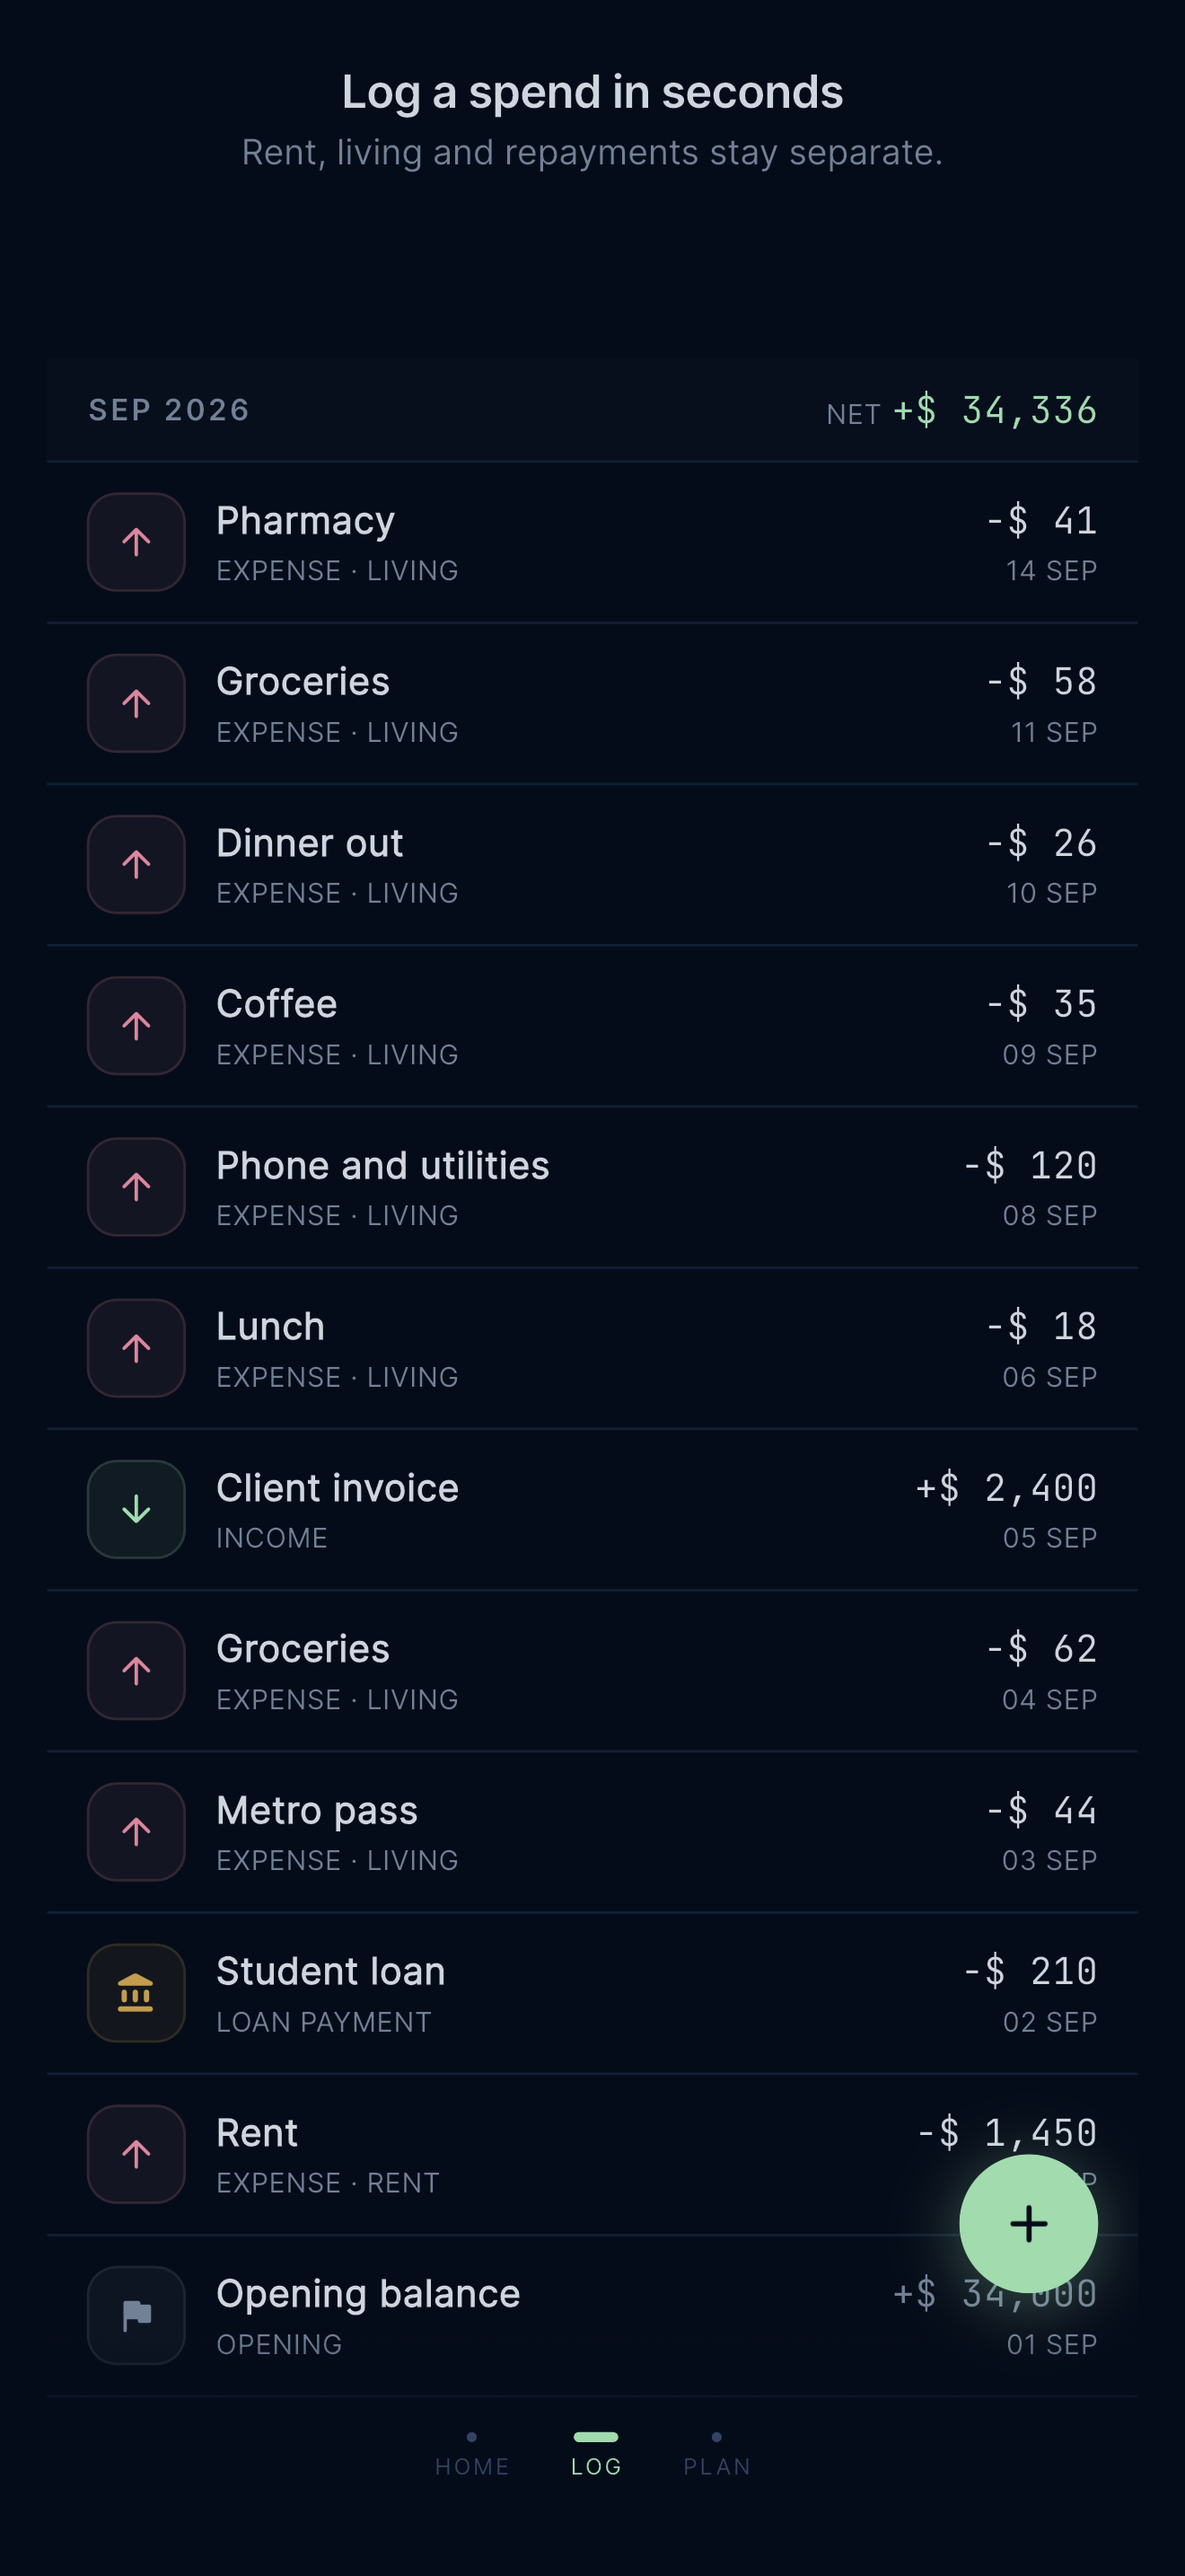
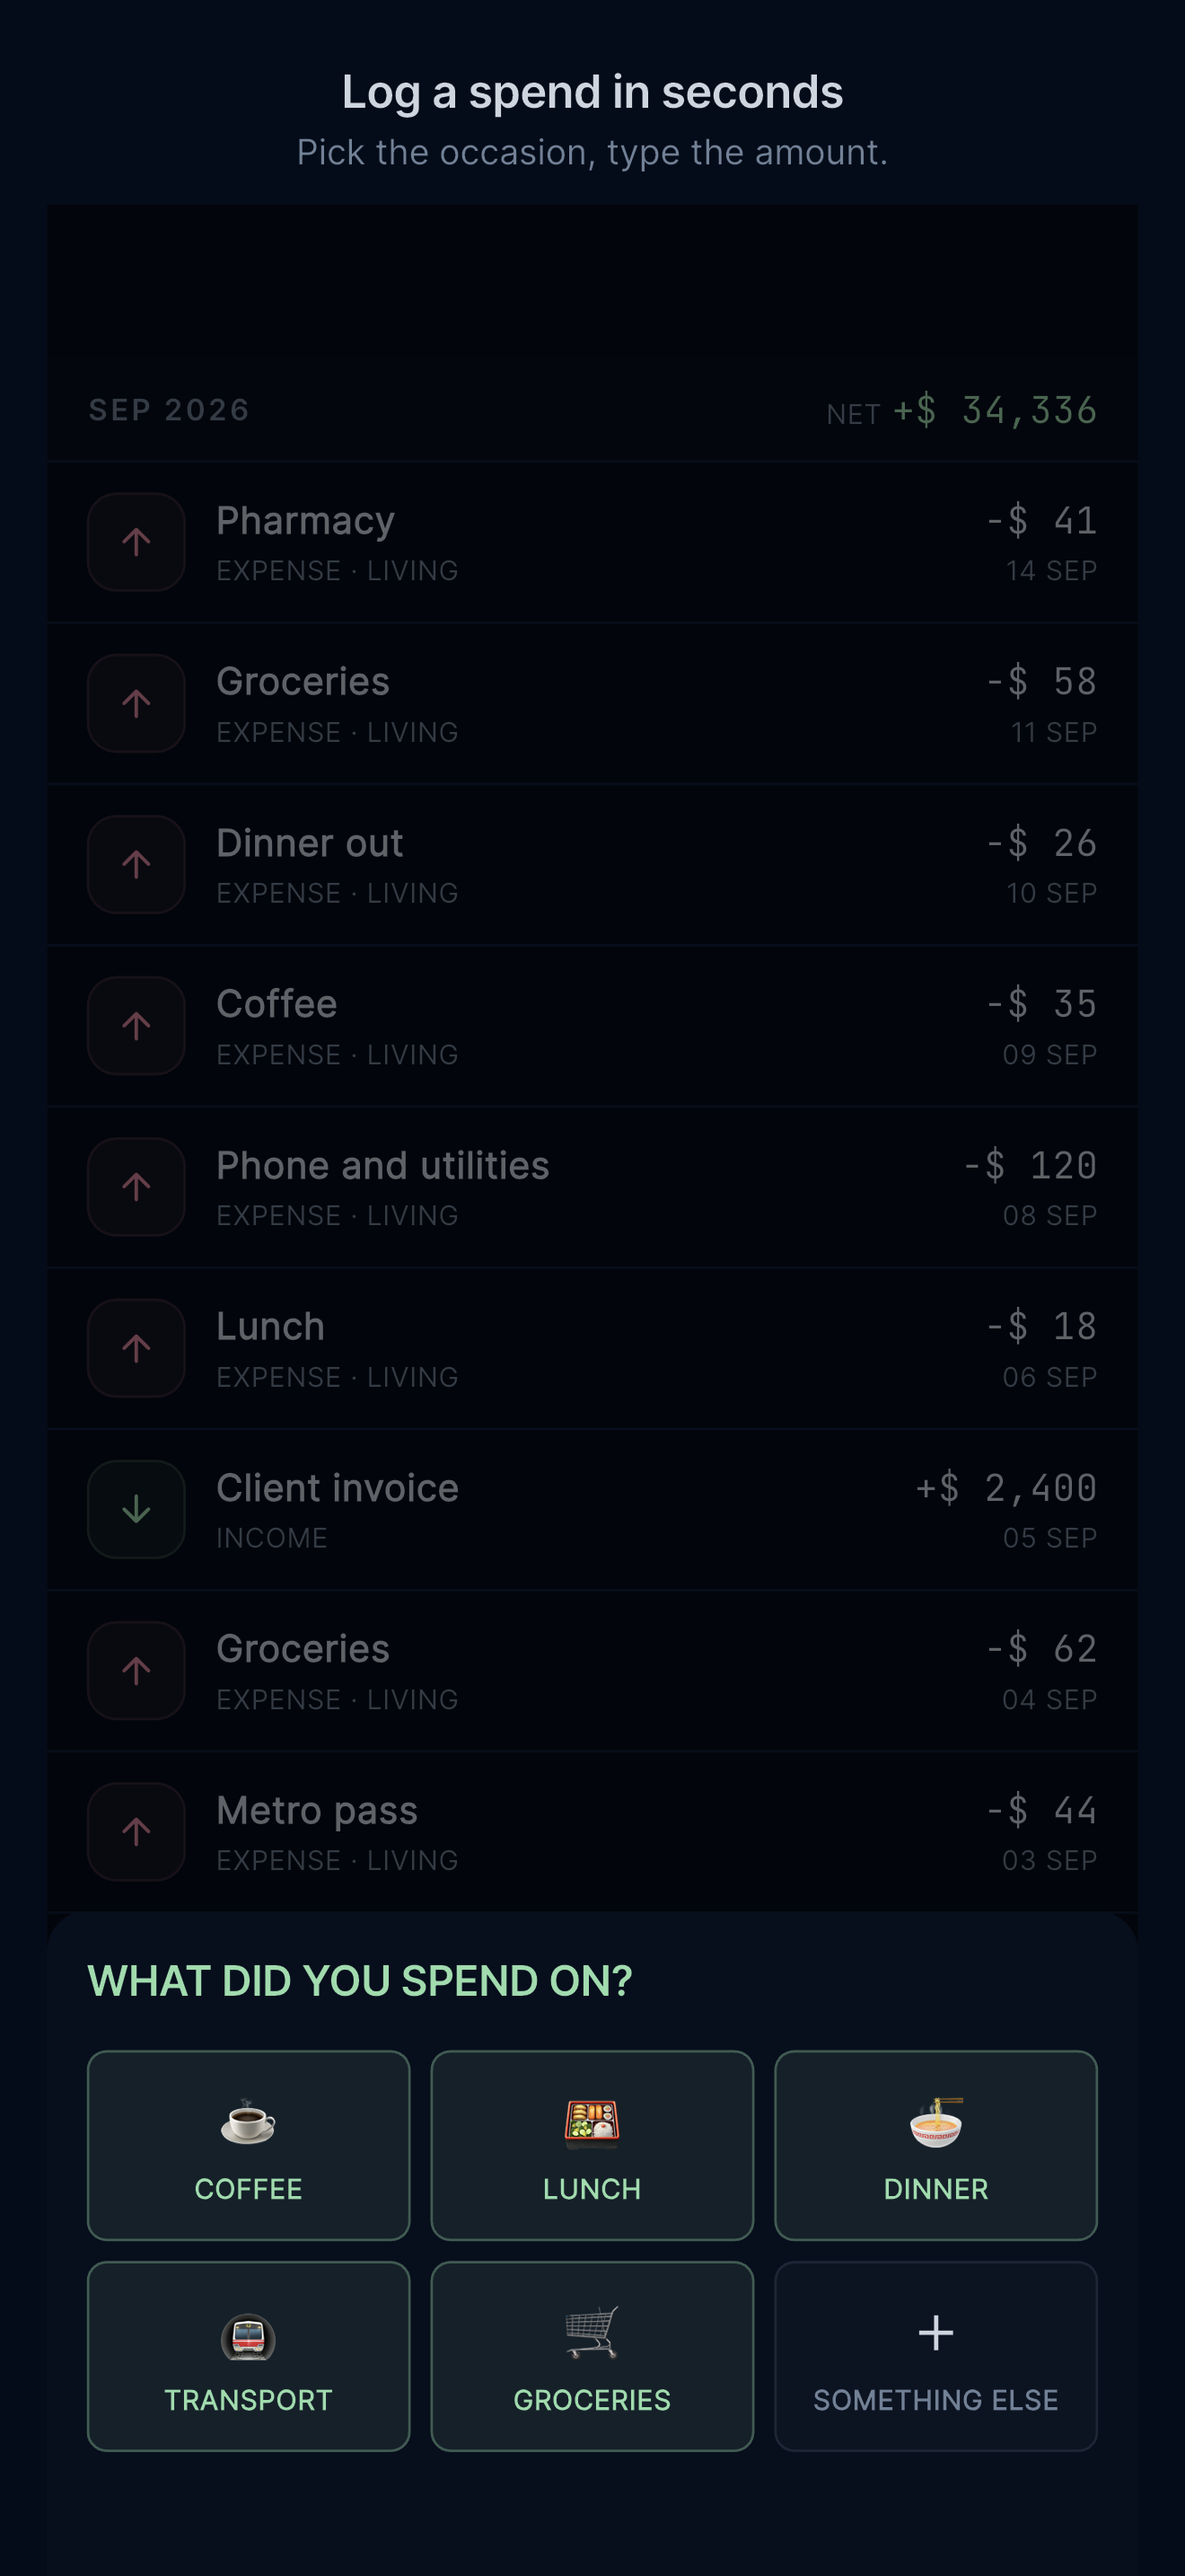
chore(marketing): the log frame shows the presets, not a list of old entries (#205)
The caption promises "log a spend in seconds" and the frame showed a list of
entries already logged, which is the result rather than the mechanism. It now
captures with the preset sheet open, so the six tiles are visible and the
dimmed list above still carries the EXPENSE / LIVING labels.

Sub-caption follows: "Pick the occasion, type the amount."

Only 03-log changes in either set. The other three frames came out
byte-identical, which is the reproducibility the pinned clock buys.

Claude-Session: https://claude.ai/code/session_01LzA2Gog4pmDHuvfaKeYrQX

diff --git a/app/integration_test/screenshots_test.dart b/app/integration_test/screenshots_test.dart
@@ -90,13 +90,20 @@ void main() {
     await pumpRealTime(tester, seconds: 2);
 
     await _tapNav(tester, 'LOG');
+    // With the sheet open. The caption promises speed, and the presets are the
+    // thing that delivers it — a list of past entries shows the result rather
+    // than the mechanism.
+    await tester.tap(find.byKey(const Key('add-fab')));
+    await pumpRealTime(tester, seconds: 2);
     await capture(
       '03-log',
       const _Caption(
         'Log a spend in seconds',
-        'Rent, living and repayments stay separate.',
+        'Pick the occasion, type the amount.',
       ),
     );
+    await tester.tap(find.byType(ModalBarrier).last, warnIfMissed: false);
+    await pumpRealTime(tester, seconds: 2);
 
     await _tapNav(tester, 'PLAN');
     await tester.enterText(
